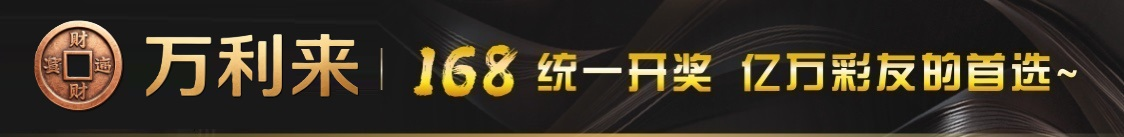
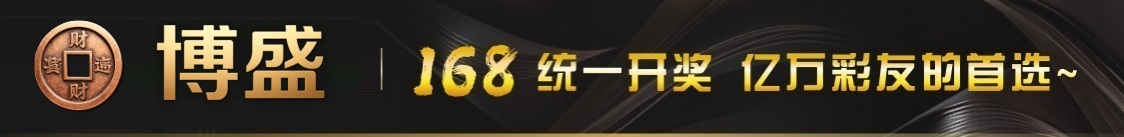
Add files via upload

Changed region(s): [[0.1246, 0.1752, 0.3425, 0.7299]]

diff --git a/index.html b/index.html
@@ -8,7 +8,7 @@
     <link rel="stylesheet" href="./skin/style_icon.css">
     <link rel="stylesheet" href="./skin/index.css">
     <script src="./skin/nutui.umd.4.3.8.js"></script>
-    <title>万利来</title>
+    <title>博盛</title>
     <meta name="keywords" content="">
     <meta name="description" content="">
     <link rel="icon" href="./static/upload/image/20250417/1744888913542556.png" type="image/png">
@@ -518,7 +518,7 @@
                     <div class="msg-bar">
                         <div class="marquee-container">
                             <div class="marquee" style="font-size: 17px;color: #D7C09D;">
-                                万利来：十年老平台，信誉保障、福利优厚、优质服务，万利来长期招收实力代理、合作伙伴，共同携手创造辉煌！
+                                博盛：十年老平台，信誉保障、福利优厚、优质服务，博盛长期招收实力代理、合作伙伴，共同携手创造辉煌！
                             </div>
                         </div>
                     </div>
@@ -672,7 +672,7 @@
                                         </div>
                                         <div class="link">
                                             <a href="javascript:;">
-                          认准万利来<br>
+                          认准博盛<br>
                         </a>
                                             <a href="javascript:;">
                           安全有保障
@@ -788,7 +788,7 @@
                                         </div>
                                         <div class="link">
                                             <a href="javascript:;">
-                          认准万利来<br>
+                          认准博盛<br>
                         </a>
                                             <a href="javascript:;">
                           安全有保障
